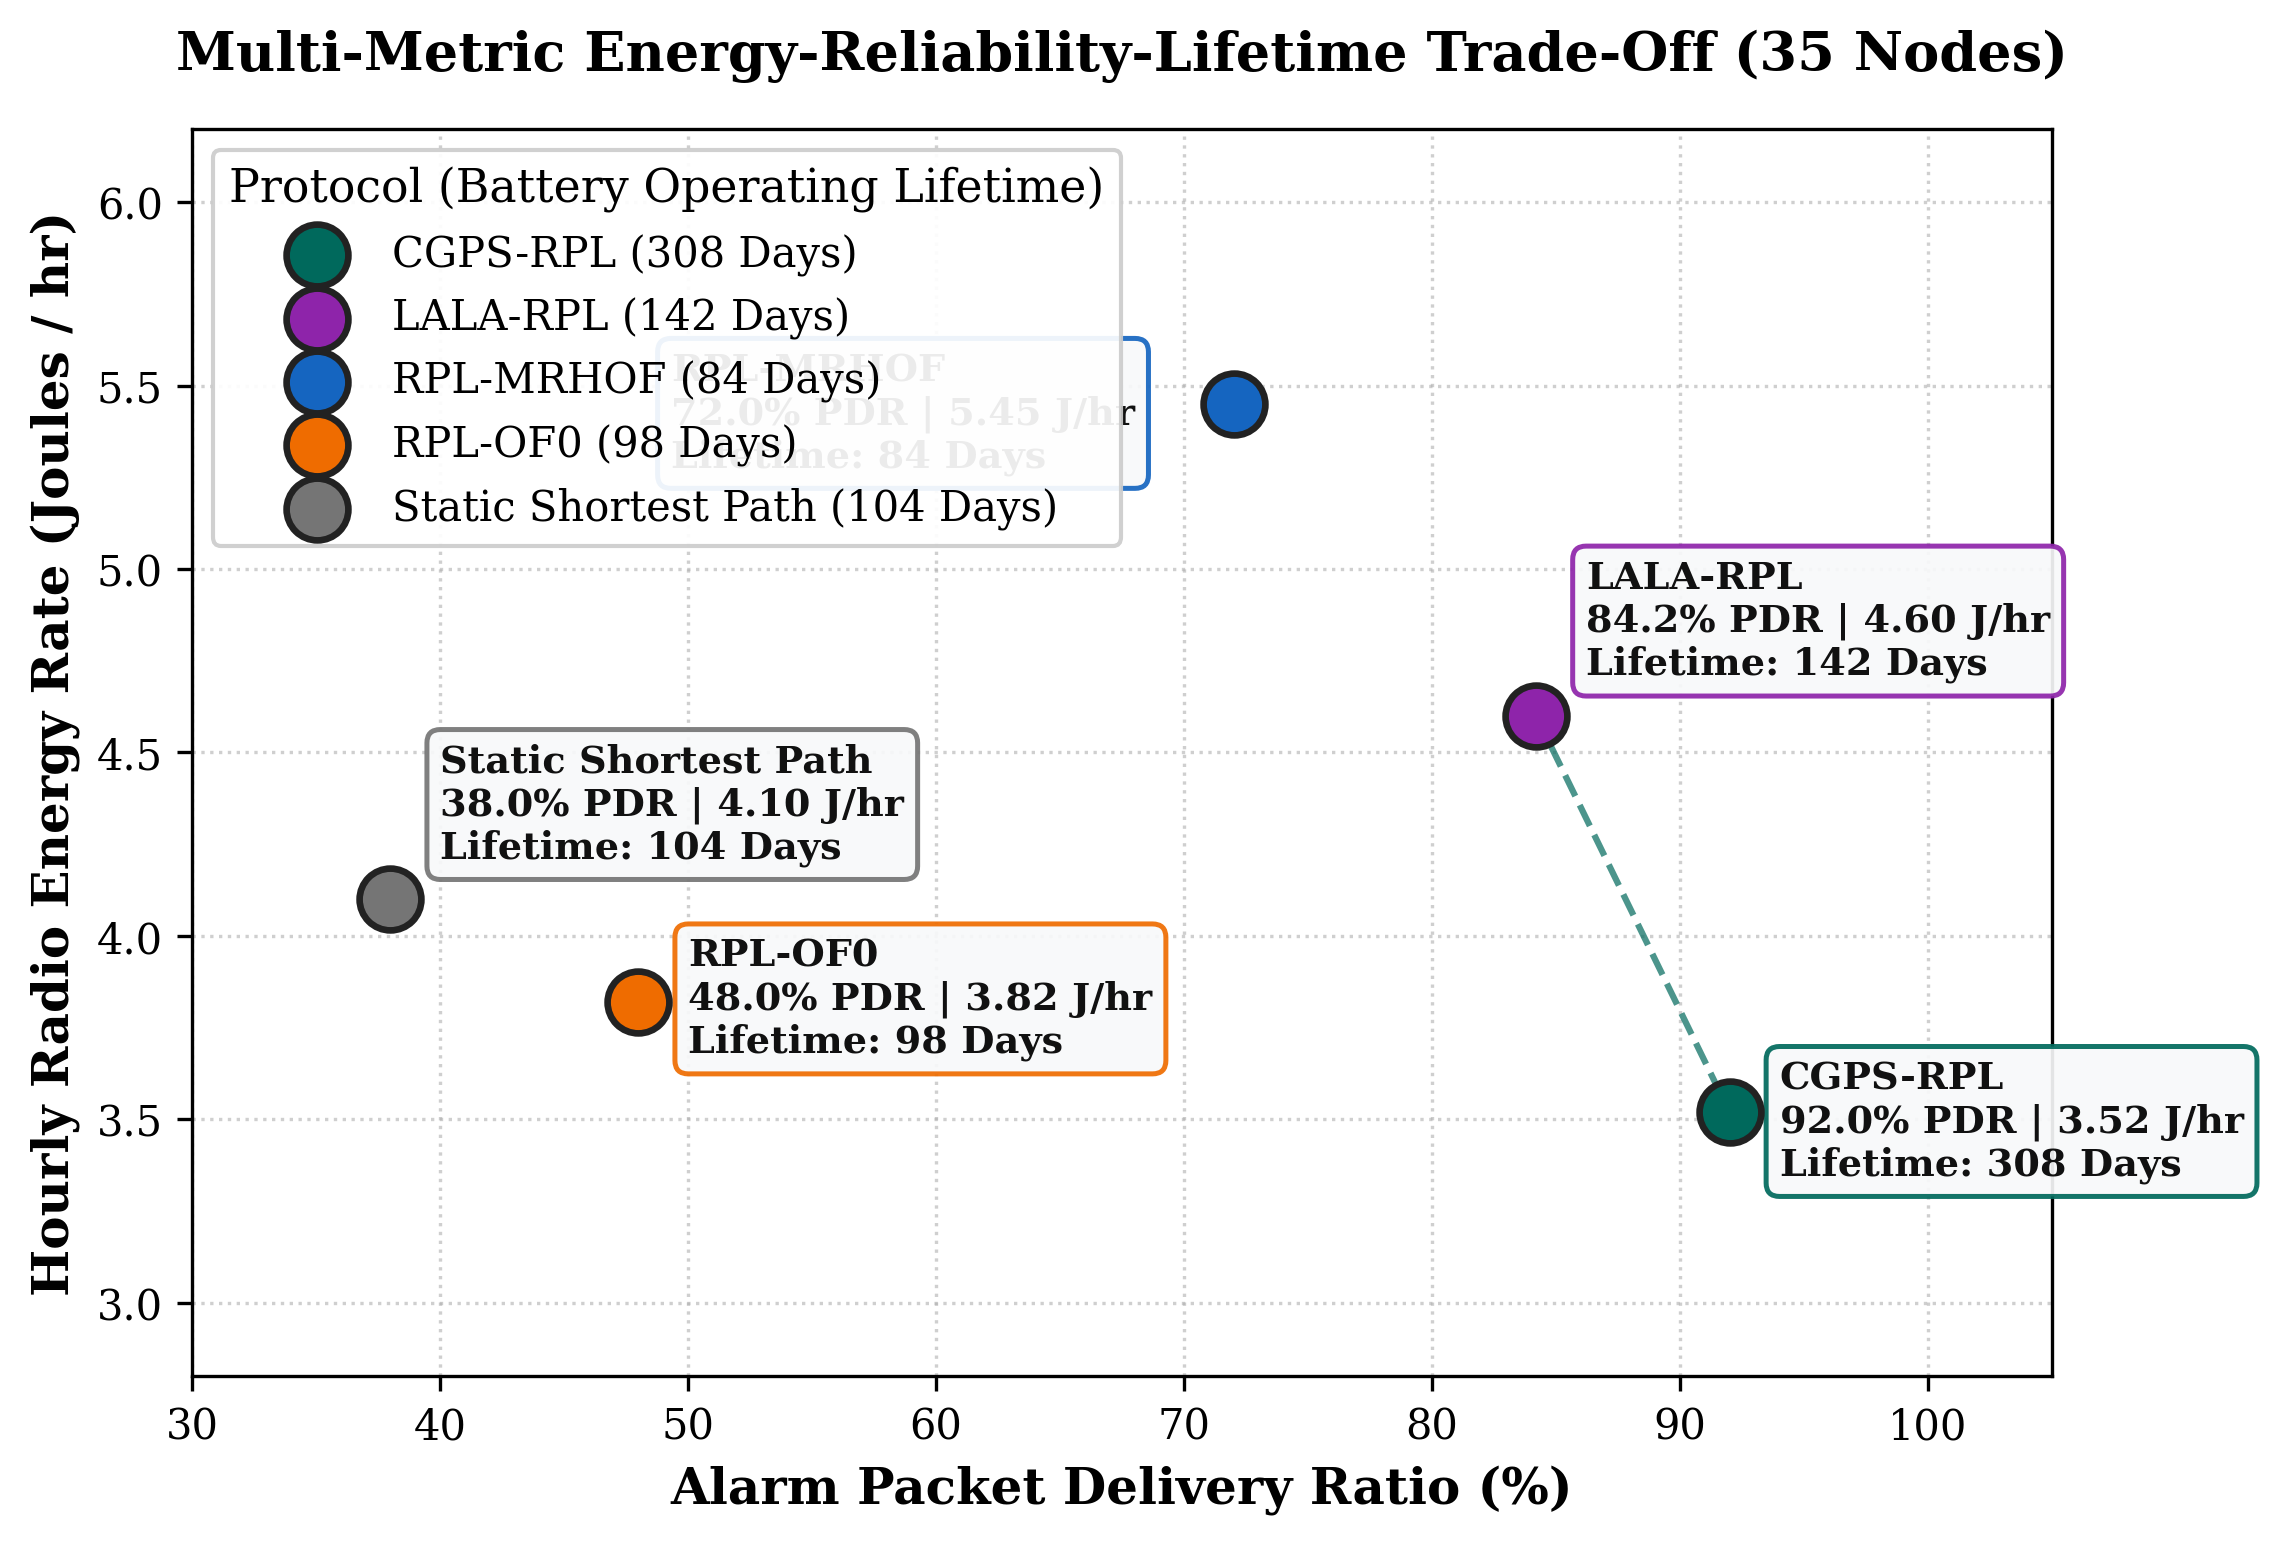
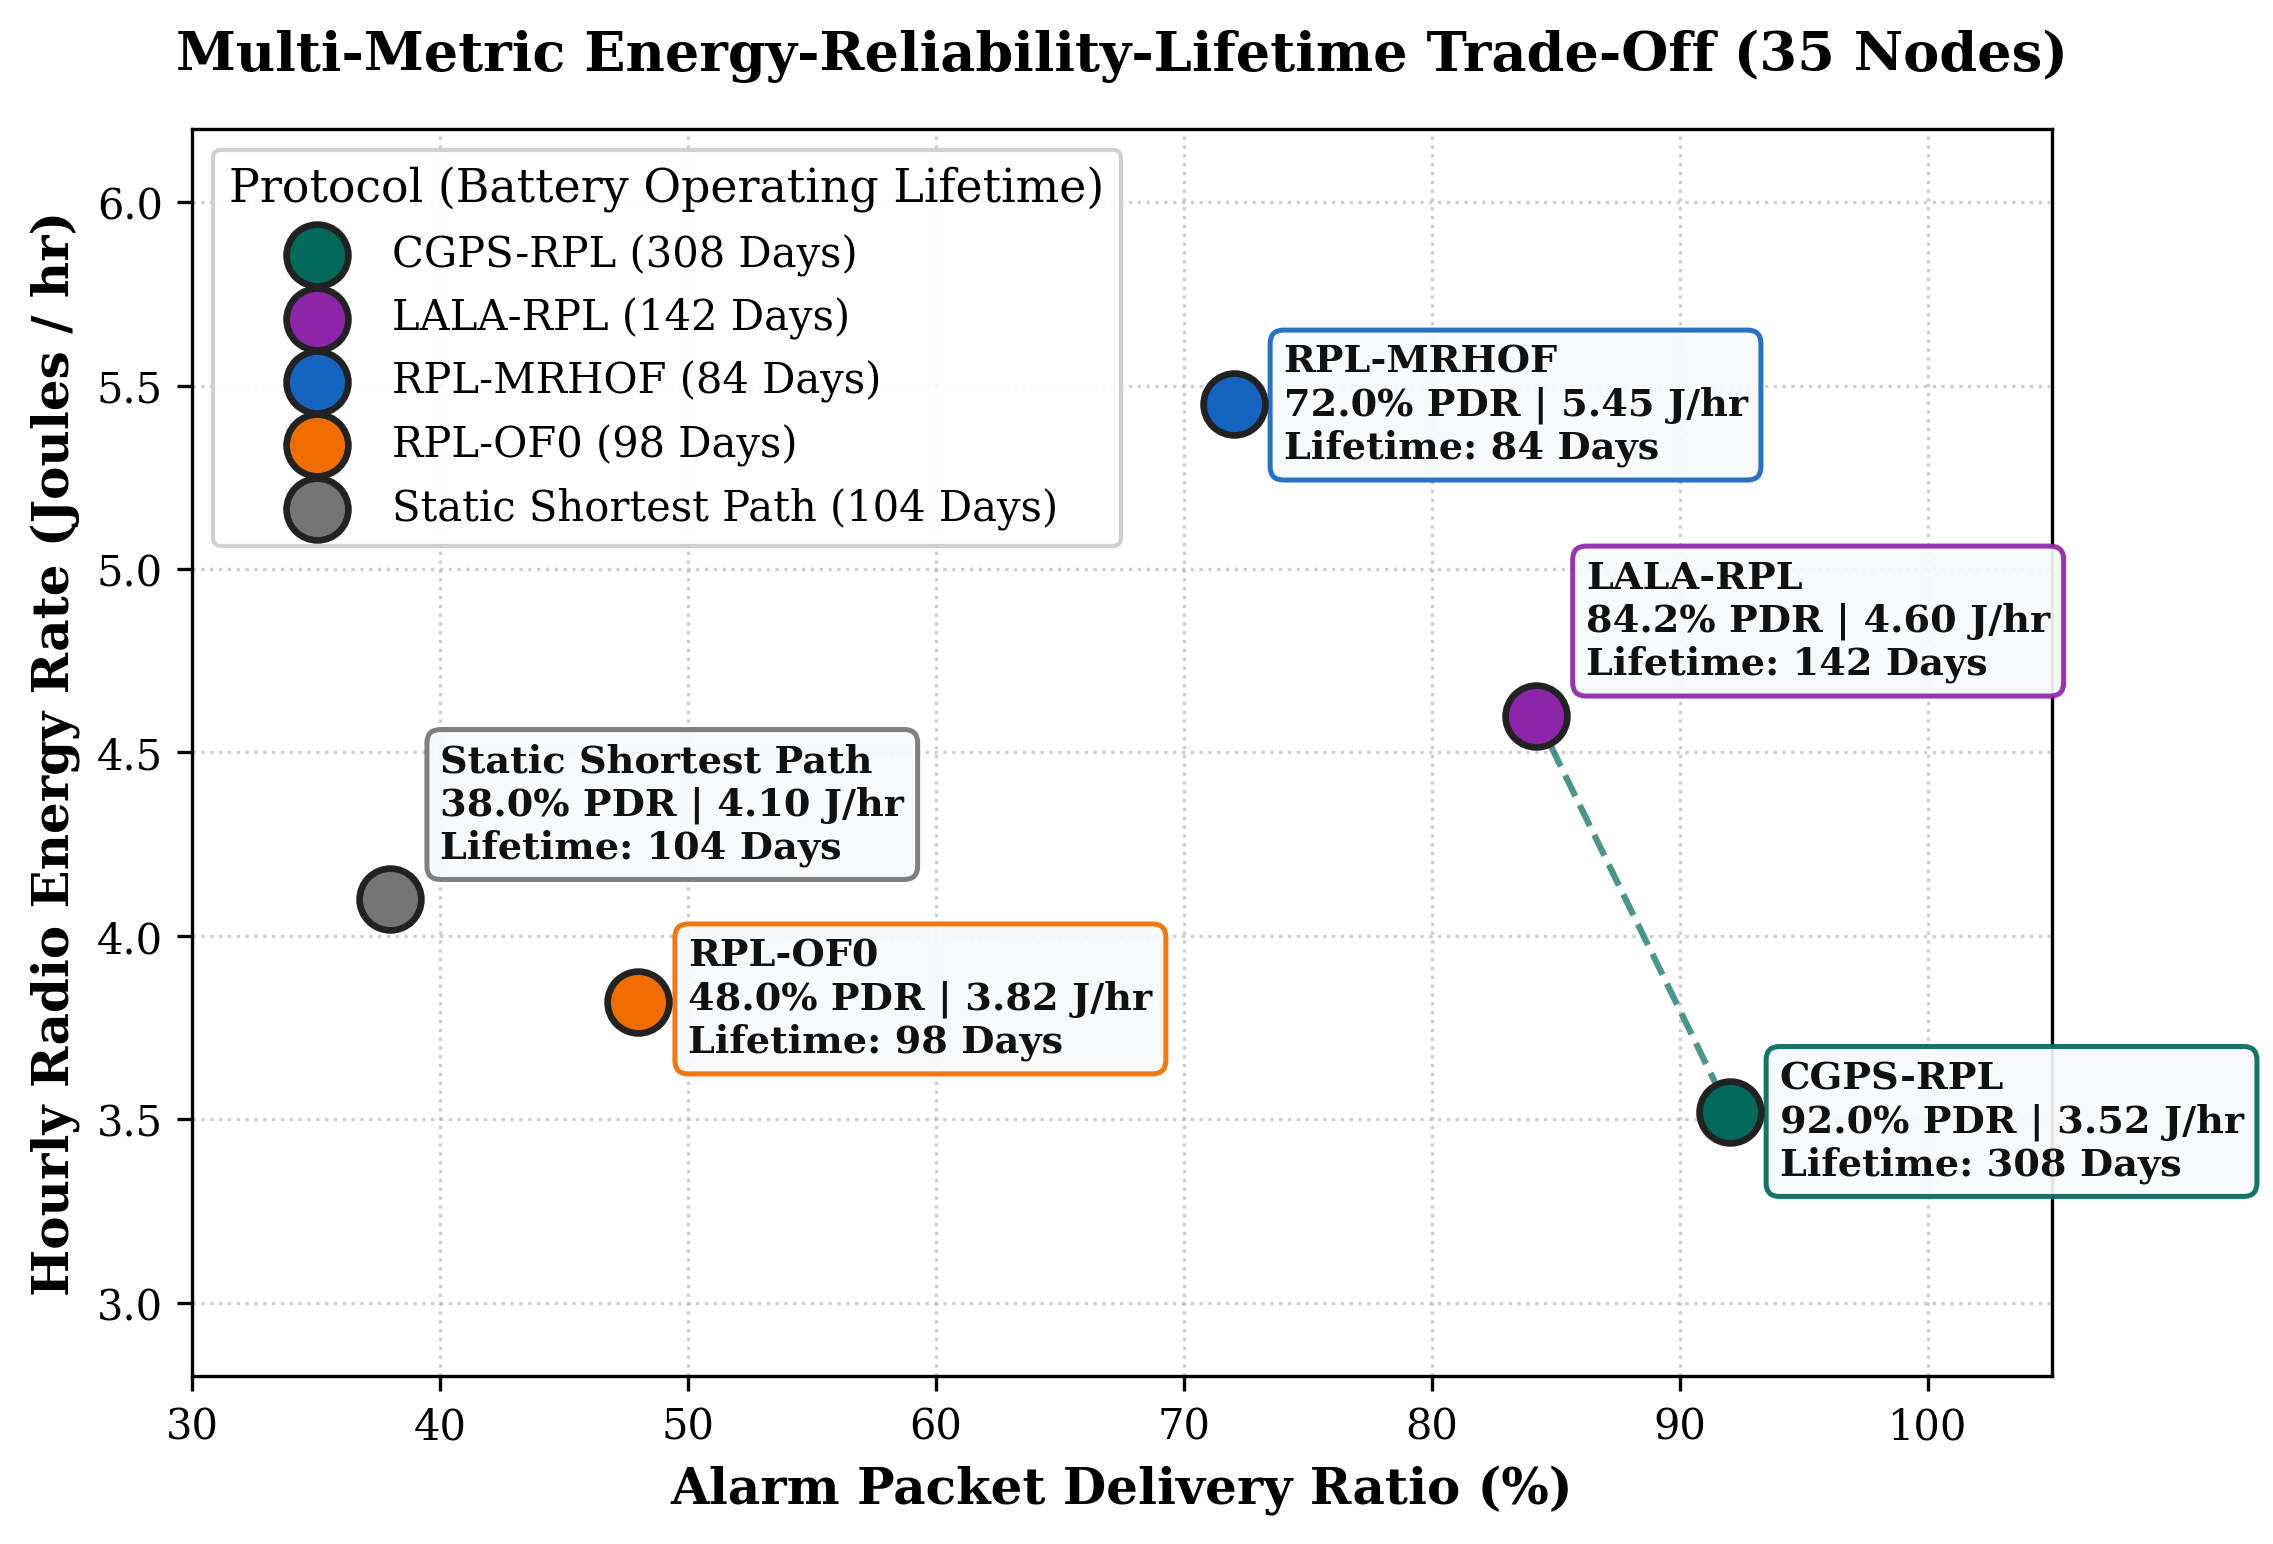
fix(Project3): move RPL-MRHOF text box to the right side of the marker in Fig. 4 Pareto plot

Changed region(s): [[0.5623, 0.1865, 0.7809, 0.3109]]

diff --git a/Project3_IoT_CGPS_RPL/scripts/generate_iot_figures.py b/Project3_IoT_CGPS_RPL/scripts/generate_iot_figures.py
@@ -233,7 +233,7 @@ def generate_fig5_energy_pareto():
     data = [
         ("cgps", 92.0, 3.52, 308, (12, -15)),
         ("lala", 84.2, 4.60, 142, (12, 10)),
-        ("mrhof", 72.0, 5.45, 84, (-135, -15)),
+        ("mrhof", 72.0, 5.45, 84, (12, -13)),
         ("of0", 48.0, 3.82, 98, (12, -12)),
         ("static", 38.0, 4.10, 104, (12, 10))
     ]
